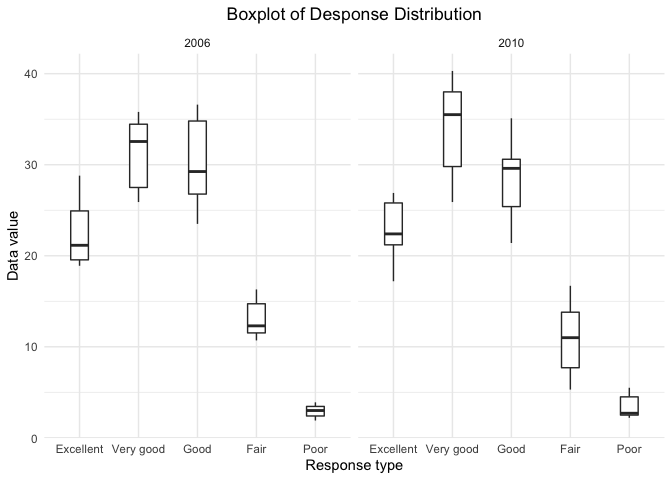
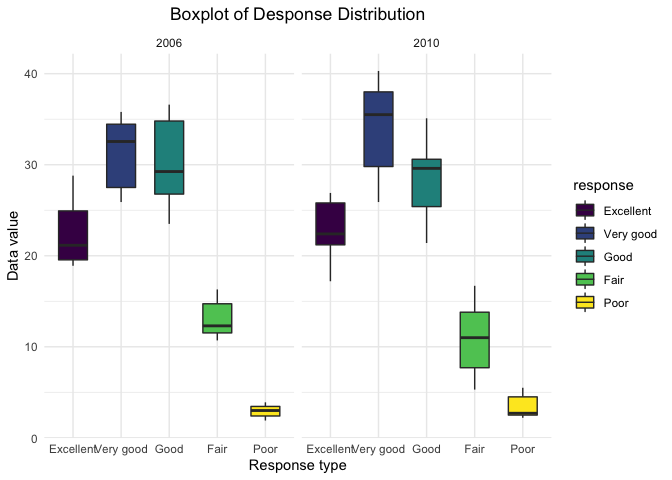
p2:update on the column names. more detailed text descriptions

diff --git a/p8105_hw3_pw2551.md b/p8105_hw3_pw2551.md
@@ -62,12 +62,12 @@ instacart %>%
 
 ![](p8105_hw3_pw2551_files/figure-gfm/unnamed-chunk-4-1.png)<!-- -->
 <br>This graph shows the number of items ordered in each aisle (number
-of items \> 1000 for all aisles here). I reordered the graph so that
-aisle with least number of items ordered is on the leftmost of the
+of items ordered \> 1000 for all aisles here). I reordered the graph so
+that aisle with least number of items ordered is on the leftmost of the
 x-axis and aisle with most number of items ordered is on the right of
-the x-axis. “Butter” and “oils vinegars” aisles have relatively least
-orders; “fresh fruits” and “fresh vegetables” aisles have the most
-orders. <br>
+the x-axis. “Butter” and “oils vinegars” aisles have relatively small
+amount of orders; “fresh fruits” and “fresh vegetables” aisles have the
+most orders. <br>
 
 <br>Make a table: best-selling
 
@@ -134,13 +134,14 @@ knitr::kable()
 | Coffee Ice Cream |  13.77 |  14.32 |   15.38 |     15.32 |    15.22 |  12.26 |    13.83 |
 | Pink Lady Apples |  13.44 |  11.36 |   11.70 |     14.25 |    11.55 |  12.78 |    11.94 |
 
-In general, ice creams are bought in the later afternoon from Mon-Thur
-and in the early afternoon from Fri-Sun. On the other hand, Pink Lady
-Apples are bought in early afternoon during the whole week. Moreover,
-the mean hour of the day on each day of the week for both products is
-clustered between 11:00 - 16:00. This could be explained by the fact
-that people usually have lunch break and are free during this time
-period.<br>
+In general, ice creams are bought in the later afternoon (around
+14:30-16:00) from Mon-Thur and in the early afternoon (around
+12:30-14:00) from Fri-Sun. On the other hand, Pink Lady Apples are
+bought in early afternoon (around 11:00-14:30) during the whole week.
+Moreover, the mean hour of the day on each day of the week for both
+products is clustered between 11:00 - 16:00. This could be explained by
+the fact that people usually have lunch break and are free during this
+time period.<br>
 
 #### Dataset description:
 
@@ -169,6 +170,9 @@ Data Cleaning
 brfss = 
   brfss_smart2010 %>% 
   janitor::clean_names() %>% 
+  rename(state = locationabbr, county = locationdesc) %>% 
+  separate(county, into = c("useless", "county"), sep = " - ") %>% 
+  select(-useless) %>% 
   filter(topic == "Overall Health") %>% 
   filter(response %in% c("Excellent", "Very good", "Good", "Fair", "Poor")) %>%
   mutate(response = factor(response, levels = c("Excellent", "Very good", "Good", "Fair", "Poor"))) %>% 
@@ -176,22 +180,22 @@ brfss =
 knitr::kable(brfss[1:5,])
 ```
 
-| year | locationabbr | locationdesc           | class         | topic          | question                    | response | sample_size | data_value | confidence_limit_low | confidence_limit_high | display_order | data_value_unit | data_value_type  | data_value_footnote_symbol | data_value_footnote | data_source | class_id | topic_id | location_id | question_id | respid  | geo_location            |
-|-----:|:-------------|:-----------------------|:--------------|:---------------|:----------------------------|:---------|------------:|-----------:|---------------------:|----------------------:|--------------:|:----------------|:-----------------|:---------------------------|:--------------------|:------------|:---------|:---------|:------------|:------------|:--------|:------------------------|
-| 2010 | AL           | AL - Jefferson County  | Health Status | Overall Health | How is your general health? | Poor     |          45 |        5.5 |                  3.5 |                   7.4 |             5 | %               | Crude Prevalence | NA                         | NA                  | BRFSS       | CLASS08  | Topic41  | NA          | GENHLTH     | RESP060 | (33.518601, -86.814688) |
-| 2010 | AL           | AL - Mobile County     | Health Status | Overall Health | How is your general health? | Poor     |          66 |        6.4 |                  4.4 |                   8.3 |             5 | %               | Crude Prevalence | NA                         | NA                  | BRFSS       | CLASS08  | Topic41  | NA          | GENHLTH     | RESP060 | (30.683993, -88.170637) |
-| 2010 | AL           | AL - Tuscaloosa County | Health Status | Overall Health | How is your general health? | Poor     |          35 |        4.2 |                  2.6 |                   5.7 |             5 | %               | Crude Prevalence | NA                         | NA                  | BRFSS       | CLASS08  | Topic41  | NA          | GENHLTH     | RESP060 | (33.214154, -87.520229) |
-| 2010 | AZ           | AZ - Maricopa County   | Health Status | Overall Health | How is your general health? | Poor     |          62 |        3.5 |                  2.3 |                   4.6 |             5 | %               | Crude Prevalence | NA                         | NA                  | BRFSS       | CLASS08  | Topic41  | NA          | GENHLTH     | RESP060 | (33.493403, -112.04143) |
-| 2010 | AZ           | AZ - Pima County       | Health Status | Overall Health | How is your general health? | Poor     |          49 |        5.7 |                  3.3 |                   8.0 |             5 | %               | Crude Prevalence | NA                         | NA                  | BRFSS       | CLASS08  | Topic41  | NA          | GENHLTH     | RESP060 | (32.216707, -110.96001) |
+| year | state | county            | class         | topic          | question                    | response | sample_size | data_value | confidence_limit_low | confidence_limit_high | display_order | data_value_unit | data_value_type  | data_value_footnote_symbol | data_value_footnote | data_source | class_id | topic_id | location_id | question_id | respid  | geo_location            |
+|-----:|:------|:------------------|:--------------|:---------------|:----------------------------|:---------|------------:|-----------:|---------------------:|----------------------:|--------------:|:----------------|:-----------------|:---------------------------|:--------------------|:------------|:---------|:---------|:------------|:------------|:--------|:------------------------|
+| 2010 | AL    | Jefferson County  | Health Status | Overall Health | How is your general health? | Poor     |          45 |        5.5 |                  3.5 |                   7.4 |             5 | %               | Crude Prevalence | NA                         | NA                  | BRFSS       | CLASS08  | Topic41  | NA          | GENHLTH     | RESP060 | (33.518601, -86.814688) |
+| 2010 | AL    | Mobile County     | Health Status | Overall Health | How is your general health? | Poor     |          66 |        6.4 |                  4.4 |                   8.3 |             5 | %               | Crude Prevalence | NA                         | NA                  | BRFSS       | CLASS08  | Topic41  | NA          | GENHLTH     | RESP060 | (30.683993, -88.170637) |
+| 2010 | AL    | Tuscaloosa County | Health Status | Overall Health | How is your general health? | Poor     |          35 |        4.2 |                  2.6 |                   5.7 |             5 | %               | Crude Prevalence | NA                         | NA                  | BRFSS       | CLASS08  | Topic41  | NA          | GENHLTH     | RESP060 | (33.214154, -87.520229) |
+| 2010 | AZ    | Maricopa County   | Health Status | Overall Health | How is your general health? | Poor     |          62 |        3.5 |                  2.3 |                   4.6 |             5 | %               | Crude Prevalence | NA                         | NA                  | BRFSS       | CLASS08  | Topic41  | NA          | GENHLTH     | RESP060 | (33.493403, -112.04143) |
+| 2010 | AZ    | Pima County       | Health Status | Overall Health | How is your general health? | Poor     |          49 |        5.7 |                  3.3 |                   8.0 |             5 | %               | Crude Prevalence | NA                         | NA                  | BRFSS       | CLASS08  | Topic41  | NA          | GENHLTH     | RESP060 | (32.216707, -110.96001) |
 
 2002 vs 2010:
 
 ``` r
 brfss %>% 
   filter(year %in% c(2002,2010)) %>%
-  select(c(year, locationabbr, locationdesc)) %>% 
-  group_by(year, locationabbr) %>% 
-  summarize(distinct_counties = n_distinct(locationdesc)) %>% 
+  select(c(year, state, county)) %>% 
+  group_by(year, state) %>% 
+  summarize(distinct_counties = n_distinct(county)) %>% 
   filter(distinct_counties >= 7) %>% 
   arrange(year, distinct_counties) %>% 
   knitr::kable()
@@ -199,64 +203,63 @@ brfss %>%
 
     ## `summarise()` has grouped output by 'year'. You can override using the `.groups` argument.
 
-| year | locationabbr | distinct_counties |
-|-----:|:-------------|------------------:|
-| 2002 | CT           |                 7 |
-| 2002 | FL           |                 7 |
-| 2002 | NC           |                 7 |
-| 2002 | MA           |                 8 |
-| 2002 | NJ           |                 8 |
-| 2002 | PA           |                10 |
-| 2010 | CO           |                 7 |
-| 2010 | PA           |                 7 |
-| 2010 | SC           |                 7 |
-| 2010 | OH           |                 8 |
-| 2010 | MA           |                 9 |
-| 2010 | NY           |                 9 |
-| 2010 | NE           |                10 |
-| 2010 | WA           |                10 |
-| 2010 | CA           |                12 |
-| 2010 | MD           |                12 |
-| 2010 | NC           |                12 |
-| 2010 | TX           |                16 |
-| 2010 | NJ           |                19 |
-| 2010 | FL           |                41 |
+| year | state | distinct_counties |
+|-----:|:------|------------------:|
+| 2002 | CT    |                 7 |
+| 2002 | FL    |                 7 |
+| 2002 | NC    |                 7 |
+| 2002 | MA    |                 8 |
+| 2002 | NJ    |                 8 |
+| 2002 | PA    |                10 |
+| 2010 | CO    |                 7 |
+| 2010 | PA    |                 7 |
+| 2010 | SC    |                 7 |
+| 2010 | OH    |                 8 |
+| 2010 | MA    |                 9 |
+| 2010 | NY    |                 9 |
+| 2010 | NE    |                10 |
+| 2010 | WA    |                10 |
+| 2010 | CA    |                12 |
+| 2010 | MD    |                12 |
+| 2010 | NC    |                12 |
+| 2010 | TX    |                16 |
+| 2010 | NJ    |                19 |
+| 2010 | FL    |                41 |
 
 During 2002, CT, FL, NC, MA, NJ and PA were observed at 7 or more
 distinct locations. During 2010, the number of states that were observed
 at 7 or more locations increase to 14 states: CO, PA, SC, OH, MA, NY,
 NE, WA, CA, MD, NC, TX, NJ, FL.<br>
 
-<br>Data set limited to `Excellent`:
+Data set limited to `Excellent`:
 
 ``` r
 excellent = 
   brfss %>% 
   filter(response == "Excellent") %>%
-  group_by(locationabbr, year) %>% 
+  group_by(state, year) %>% 
   summarize(mean_data = mean(data_value, na.rm = TRUE))
 ```
 
-    ## `summarise()` has grouped output by 'locationabbr'. You can override using the `.groups` argument.
+    ## `summarise()` has grouped output by 'state'. You can override using the `.groups` argument.
 
 ``` r
-knitr::kable(excellent[1:5,])
+knitr::kable(excellent[1:5,])  # just show the first five rows
 ```
 
-| locationabbr | year | mean_data |
-|:-------------|-----:|----------:|
-| AK           | 2002 |     27.90 |
-| AK           | 2003 |     24.85 |
-| AK           | 2004 |     23.05 |
-| AK           | 2005 |     23.85 |
-| AK           | 2007 |     23.50 |
+| state | year | mean_data |
+|:------|-----:|----------:|
+| AK    | 2002 |     27.90 |
+| AK    | 2003 |     24.85 |
+| AK    | 2004 |     23.05 |
+| AK    | 2005 |     23.85 |
+| AK    | 2007 |     23.50 |
 
-For each state (`locatioinabbr`), there’s a variable `mean_data` that
-represents mean of `data_value` across locations every year.<br>
-<br>Make a spaghetti plot:
+For each state, there’s a variable `mean_data` that represents mean of
+`data_value` across locations every year.<br> <br>Make a spaghetti plot:
 
 ``` r
-ggplot(excellent, aes(x = year, y = mean_data, group = locationabbr, color = locationabbr)) + 
+ggplot(excellent, aes(x = year, y = mean_data, group = state, color = state)) + 
   geom_line(alpha = 0.6) +
   ggtitle("Mean Data_value for Each State Acorss Years") +
   theme(plot.title = element_text(hjust = 0.5)) +
@@ -273,10 +276,10 @@ fluctuate from year to year in many states. <br>
 
 ``` r
 brfss %>% 
-  filter(locationabbr=="NY" & year %in% c(2006, 2010)) %>% 
+  filter(state=="NY" & year %in% c(2006, 2010)) %>% 
   arrange(year) %>% 
-  ggplot(aes(x = response, y = data_value)) + 
-  geom_boxplot(width = 0.3) +
+  ggplot(aes(x = response, y = data_value, fill = response)) + 
+  geom_boxplot(width = 0.6) +
   ggtitle("Boxplot of Desponse Distribution") +
   theme(plot.title = element_text(hjust = 0.5)) +
   labs(y = "Data value", x = "Response type") +
@@ -370,10 +373,10 @@ traditional %>%
 ![](p8105_hw3_pw2551_files/figure-gfm/unnamed-chunk-15-1.png)<!-- -->
 <br> We can see from the graph above that Friday, Saturday in earlier
 weeks and Sunday have more total activities than the weekdays. Total
-activities during Tuesday, Wednesday and Thursday don’t fluctuate from
-week to week. Total activities for the week-4 and week-5 Saturday are
-extremely small, while total activities for the week-3 Monday are
-considerably large. <br>
+activities during Tuesday, Wednesday and Thursday remain stable (around
+4 \* 10<sup>5</sup>) across weeks. Total activities for the week-4 and
+week-5 Saturday and week-1 Monday are extremely small, while total
+activities for the week-3 Monday are considerably large. <br>
 
 <br>Day across the week
 
